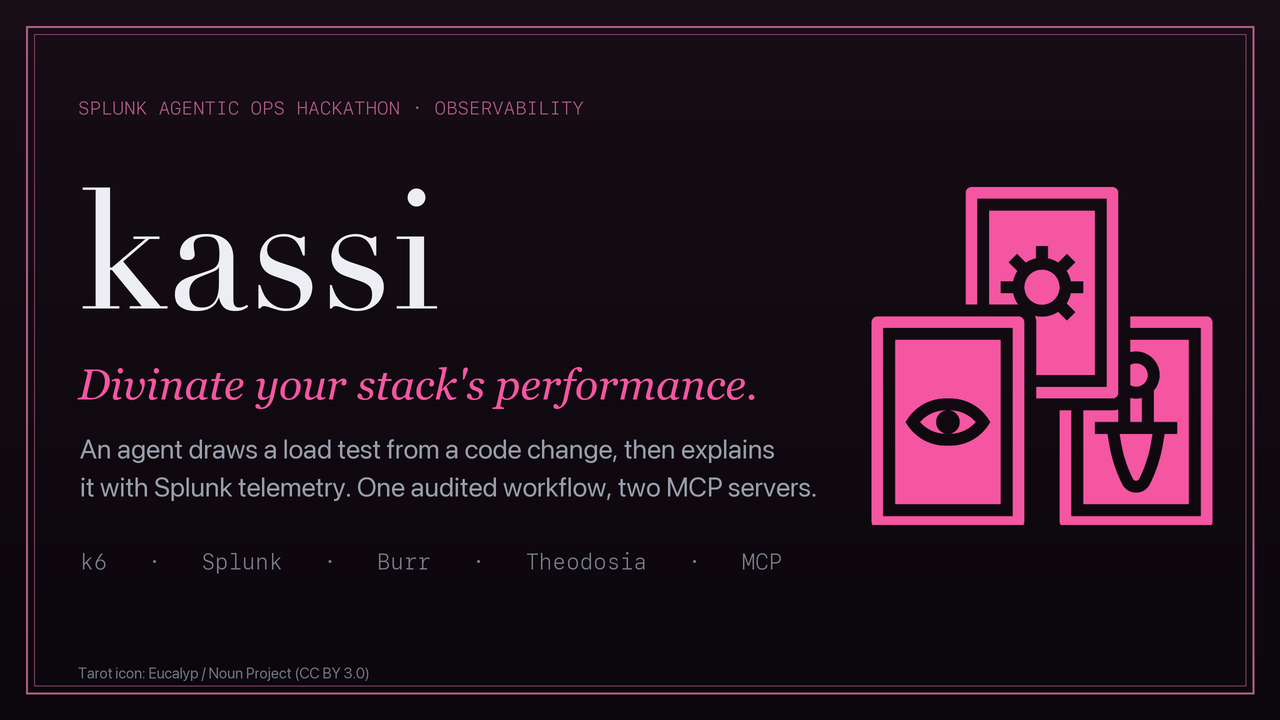
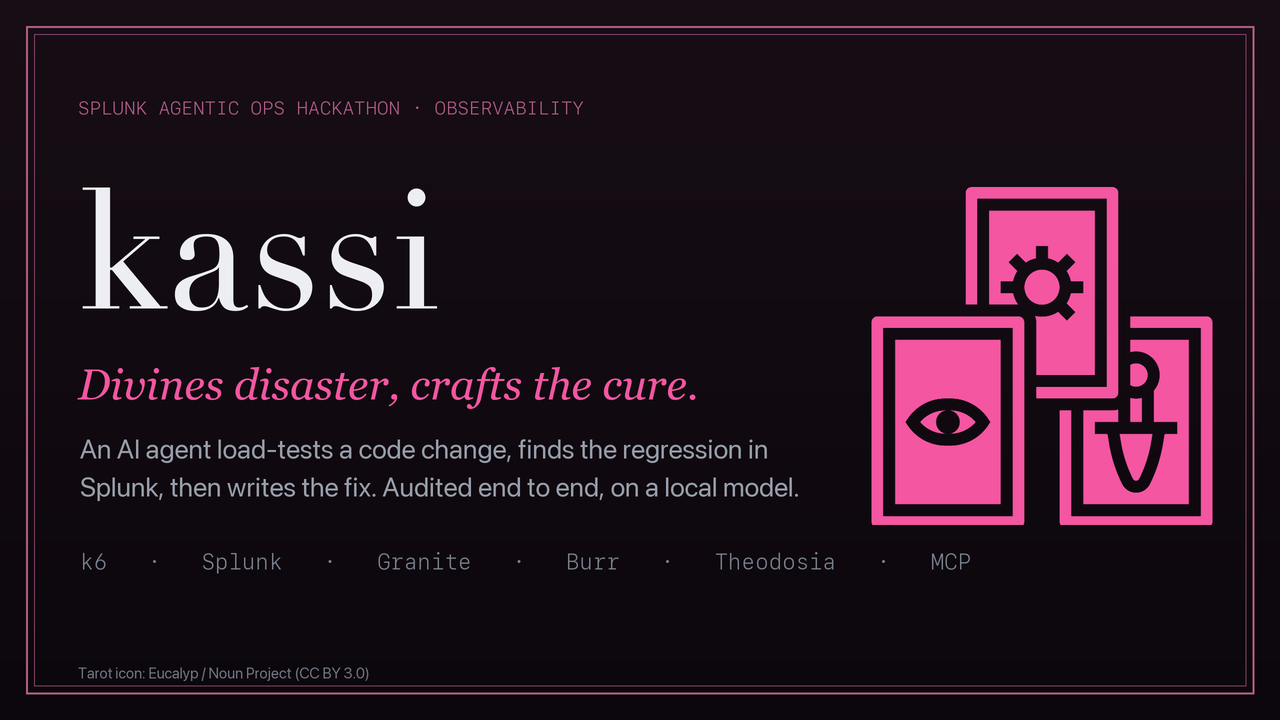
docs: refresh cover (remediation + local-model framing), add 3:2 variant
Update the cover tagline to 'Divines disaster, crafts the cure.' and the
sub-text to the full loop (load-test a change, find the regression in Splunk,
write the fix, audited, on a local model); add Granite to the stack chips.
make_cover is now size-aware and also emits cover-3x2.png (1280x853) for
Devpost's 3:2 image field.

diff --git a/scripts/make_cover.py b/scripts/make_cover.py
@@ -113,11 +113,16 @@ def vgradient(size: tuple[int, int], top: tuple, bot: tuple) -> Image.Image:
     return base
 
 
-def make_cover(palette: str = DEFAULT_PALETTE, out: Path | None = None) -> None:
+def make_cover(
+    palette: str = DEFAULT_PALETTE, out: Path | None = None, size: tuple[int, int] = (1280, 720)
+) -> None:
     p = PALETTES[palette]
     accent, dim, frame = p["accent"], p["dim"], p["frame"]
     s = 2  # supersample, then downscale for crisp text
-    W, H = 1280 * s, 720 * s
+    W, H = size[0] * s, size[1] * s
+    # The composition is tuned for a 720-tall canvas; on a taller (e.g. 3:2) canvas, center the
+    # text block vertically and keep the credit pinned to the bottom edge.
+    dy = (H - 720 * s) // 2
     img = vgradient((W, H), p["bg_top"], p["bg_bot"])
     d = ImageDraw.Draw(img)
 
@@ -125,7 +130,7 @@ def make_cover(palette: str = DEFAULT_PALETTE, out: Path | None = None) -> None:
     for inset, width, col in ((26 * s, 2 * s, dim), (34 * s, 1 * s, frame)):
         d.rectangle((inset, inset, W - inset, H - inset), outline=col, width=width)
 
-    # right-hand hero: the recolored tarot icon
+    # right-hand hero: the recolored tarot icon (vertically centered on the canvas)
     icon = recolor_icon(accent)
     ih = 338 * s
     iw = round(icon.width * ih / icon.height)
@@ -134,32 +139,32 @@ def make_cover(palette: str = DEFAULT_PALETTE, out: Path | None = None) -> None:
     img.paste(icon, (icon_cx - iw // 2, (H - ih) // 2 - 4 * s), icon)
 
     x = 78 * s
-    d.text((x, 96 * s), "SPLUNK AGENTIC OPS HACKATHON · OBSERVABILITY", font=font("mono", 19 * s), fill=dim)
-    d.text((x, 150 * s), "kassi", font=font("serif", 168 * s), fill=WHITE)
-    d.text((x, 360 * s), "Divinate your stack's performance.", font=font("serif_italic", 43 * s), fill=accent)
+    d.text((x, dy + 96 * s), "SPLUNK AGENTIC OPS HACKATHON · OBSERVABILITY", font=font("mono", 19 * s), fill=dim)
+    d.text((x, dy + 150 * s), "kassi", font=font("serif", 168 * s), fill=WHITE)
+    d.text((x, dy + 360 * s), "Divines disaster, crafts the cure.", font=font("serif_italic", 43 * s), fill=accent)
 
     sub = font("sans", 27 * s)
     lines = [
-        "An agent draws a load test from a code change, then explains",
-        "it with Splunk telemetry. One audited workflow, two MCP servers.",
+        "An AI agent load-tests a code change, finds the regression in",
+        "Splunk, then writes the fix. Audited end to end, on a local model.",
     ]
     for i, line in enumerate(lines):
-        d.text((x + 2 * s, (432 + i * 38) * s), line, font=sub, fill=GRAY)
+        d.text((x + 2 * s, dy + (432 + i * 38) * s), line, font=sub, fill=GRAY)
 
     d.text(
-        (x + 2 * s, 548 * s),
-        "k6   ·   Splunk   ·   Burr   ·   Theodosia   ·   MCP",
+        (x + 2 * s, dy + 548 * s),
+        "k6   ·   Splunk   ·   Granite   ·   Burr   ·   Theodosia   ·   MCP",
         font=font("mono", 22 * s),
         fill=(120, 128, 142),
     )
     d.text(
-        (x, 664 * s),
+        (x, H - 56 * s),
         "Tarot icon: Eucalyp / Noun Project (CC BY 3.0)",
         font=font("sans", 15 * s),
         fill=(110, 116, 130),
     )
 
-    img.resize((1280, 720), Image.LANCZOS).save(out or ASSETS / "cover.png")
+    img.resize(size, Image.LANCZOS).save(out or ASSETS / "cover.png")
 
 
 def main() -> None:
@@ -167,7 +172,8 @@ def main() -> None:
     for shot in sorted(ASSETS.glob("shot-*.png")):
         autocrop(shot)
     make_cover(palette)
-    print(f"wrote cover.png ({palette})")
+    make_cover(palette, out=ASSETS / "cover-3x2.png", size=(1280, 853))  # Devpost 3:2
+    print(f"wrote cover.png + cover-3x2.png ({palette})")
 
 
 if __name__ == "__main__":